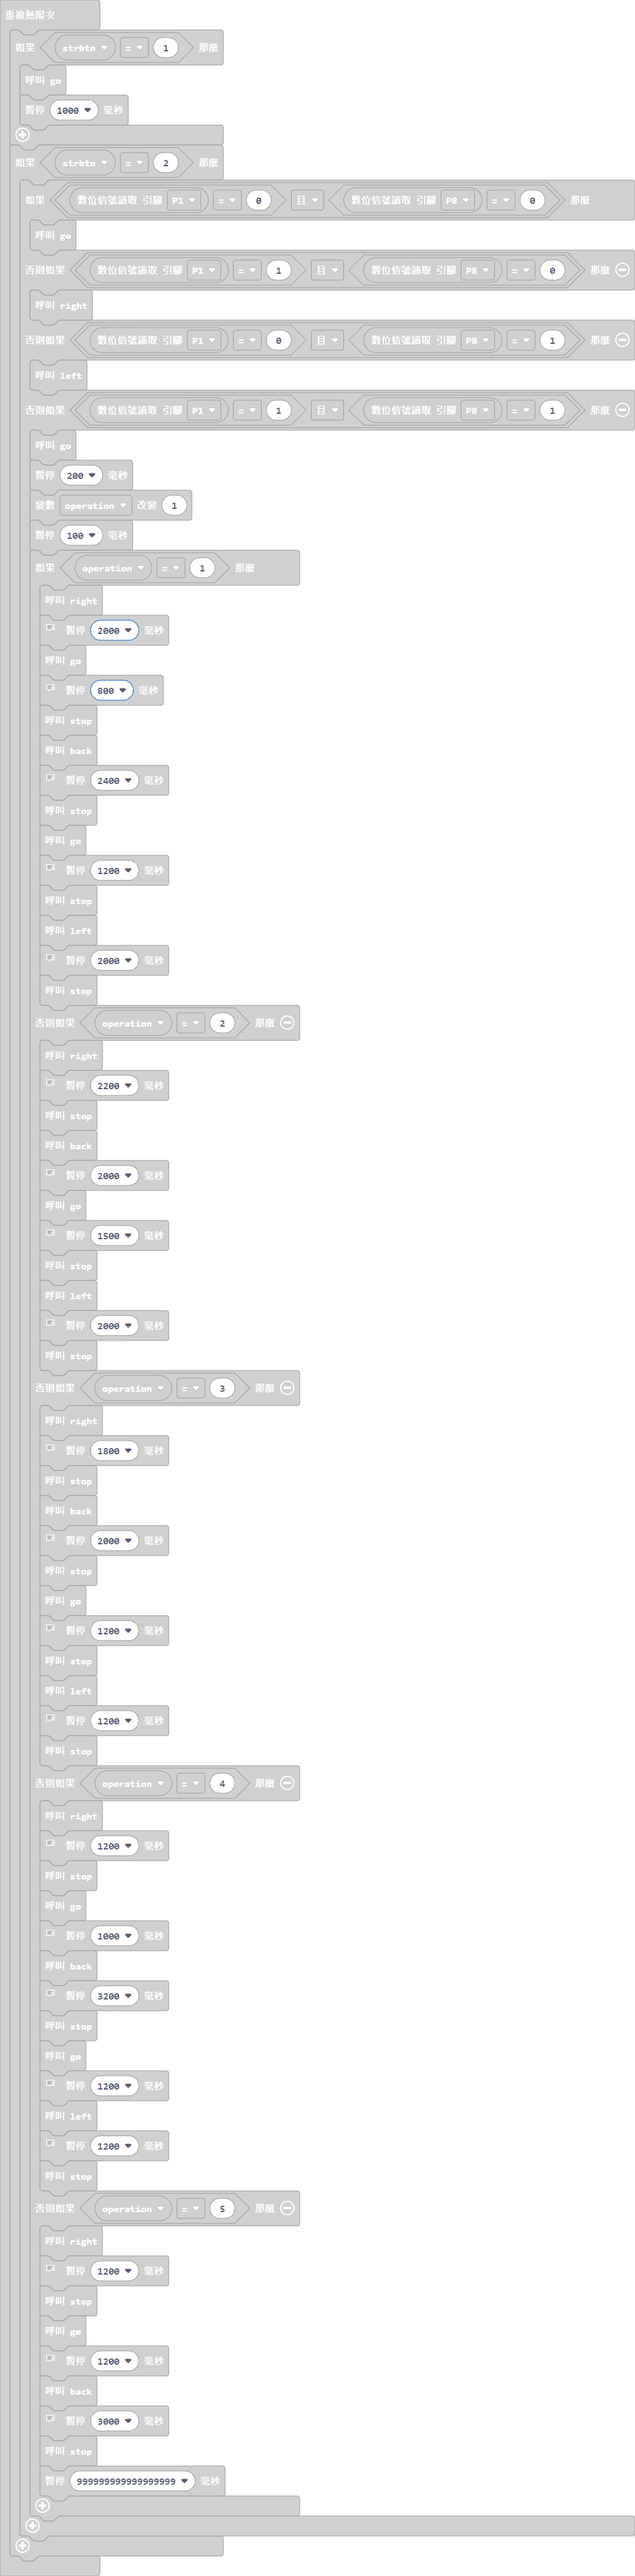
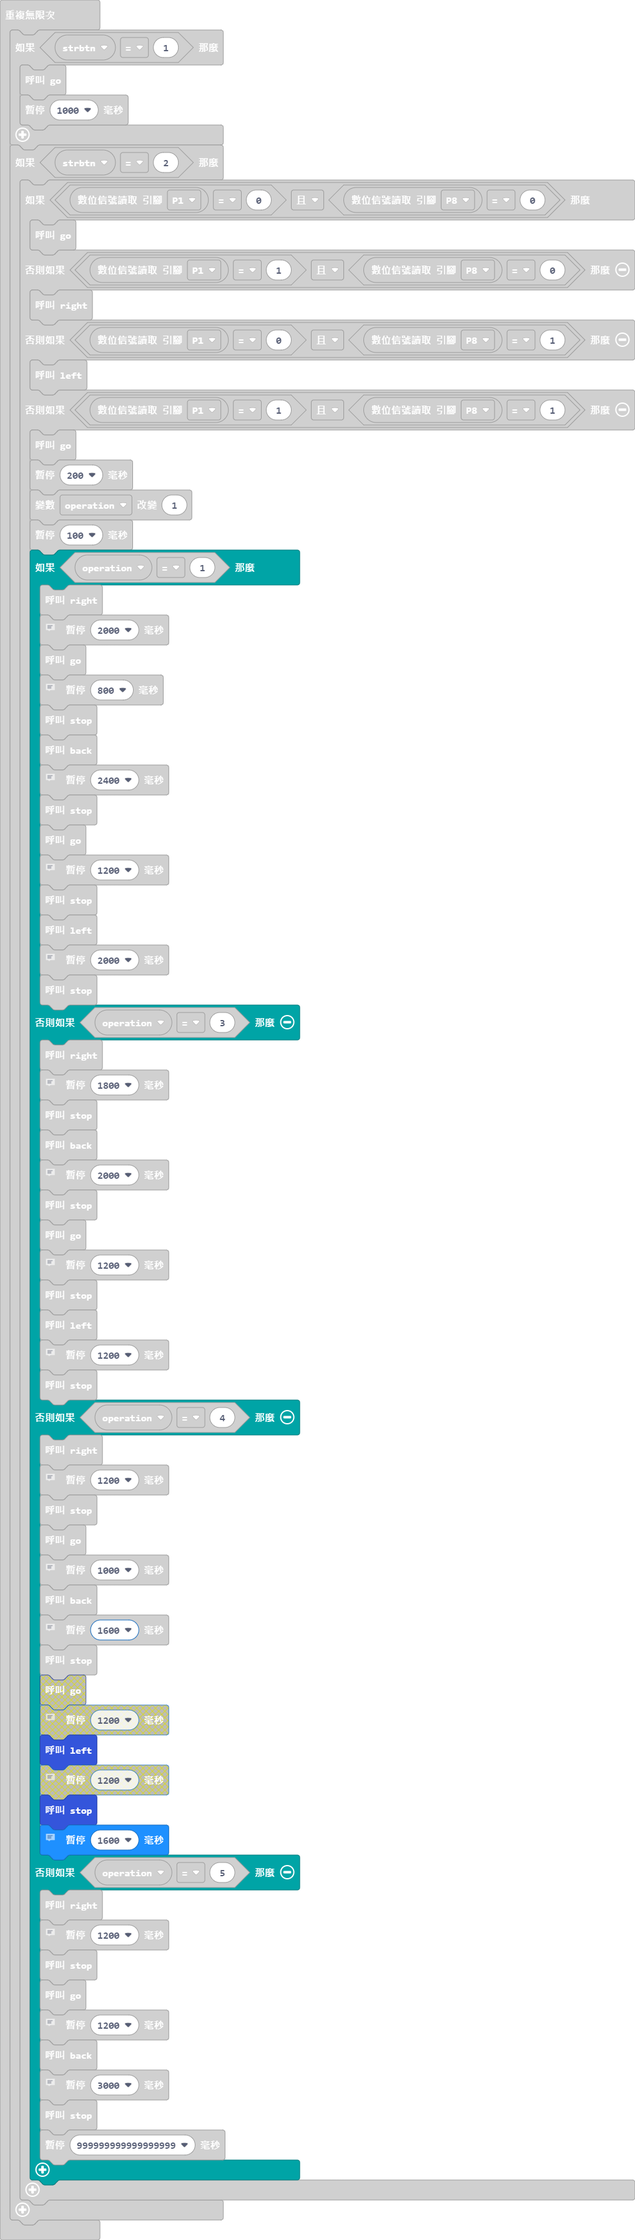
更新 main.blocks, main.ts

Changed region(s): [[0.0305, 0.0, 1.0, 1.0]]

diff --git a/main.ts b/main.ts
@@ -125,22 +125,6 @@ basic.forever(function () {
                 // 從第一路口左轉朝向正前方
                 basic.pause(2000)
                 stop()
-            } else if (operation == 2) {
-                right()
-                // 自第二路口轉向F區正前方
-                basic.pause(2200)
-                stop()
-                back()
-                // 自F區前方後退推動F區
-                basic.pause(2000)
-                go()
-                // 從F區前進到第二路口
-                basic.pause(1500)
-                stop()
-                left()
-                // 從第二路口左轉朝向正前方
-                basic.pause(2000)
-                stop()
             } else if (operation == 3) {
                 right()
                 // 在第三路口右轉
@@ -168,14 +152,11 @@ basic.forever(function () {
                 basic.pause(1000)
                 back()
                 // 後退推進G區
-                basic.pause(3200)
+                basic.pause(1600)
                 stop()
-                go()
-                // 離開G區前進到第四路口
-                basic.pause(1200)
                 left()
-                // 第四路口朝向正前方
-                basic.pause(1200)
+                // 前進回正
+                basic.pause(1600)
                 stop()
             } else if (operation == 5) {
                 right()
